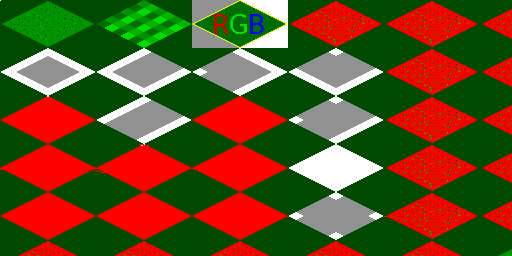
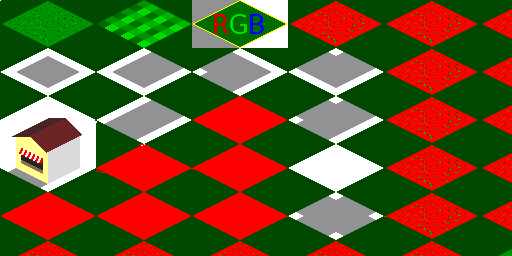
added dummy shop (only visual)

Changed region(s): [[0.0, 0.375, 0.1875, 0.75]]

diff --git a/src/simulationview.py b/src/simulationview.py
@@ -154,6 +154,16 @@ class SimulationView:
 
 
     def get_sprite_vertex_data(self):
+        for shop in self.simulation.shops:
+            dz_down = -VOXEL_Y_SIDE / VOXEL_HEIGHT
+            dz_up = (96 - VOXEL_Y_SIDE) / VOXEL_HEIGHT
+            r = Rect(0, 416 / 512, 96 / 1024, 512 / 512)
+            yield from (shop.x, shop.y + 1, dz_down, 0, r.left, r.bottom, 0, 0)
+            yield from (shop.x + 1, shop.y, dz_down, 0, r.right, r.bottom, 0, 0)
+            yield from (shop.x + 1, shop.y, dz_up, 0, r.right, r.top, 0, 0)
+            yield from (shop.x, shop.y + 1, dz_up, 0, r.left, r.top, 0, 0)
+
+
         for person in self.simulation.persons:
             self.sprite.set_pose(person.pose)
             self.sprite.turn_to(person.direction)

diff --git a/src/simulation.py b/src/simulation.py
@@ -42,6 +42,11 @@ class Tile:
         self.path = data['p']
         return self
 
+class Object:
+    def __init__(self, **kwargs):
+        for key, value in kwargs.items():
+            setattr(self, key, value)
+
 class Person:
     def __init__(self, simu, name, x, y):
         self.simu = simu
@@ -151,7 +156,7 @@ class Simulation:
         self.make_path_graph()
 
         self.persons = [Person(self, i, i // 3, i % 3) for i in range(10)]
-
+        self.shops = [Object(x=5, y=4)]
         self.time = 0
 
     def set_path(self, column, row, path):
